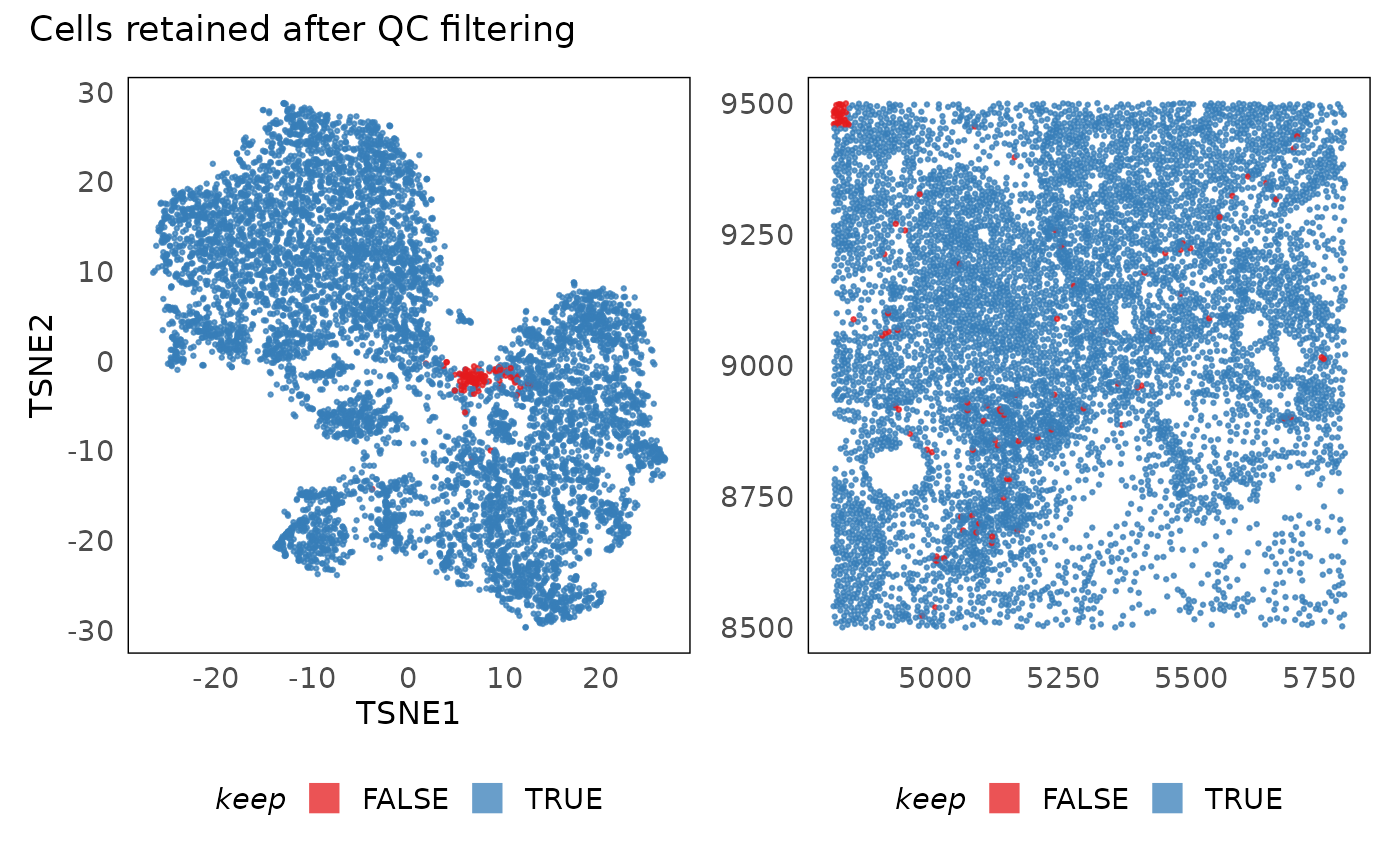
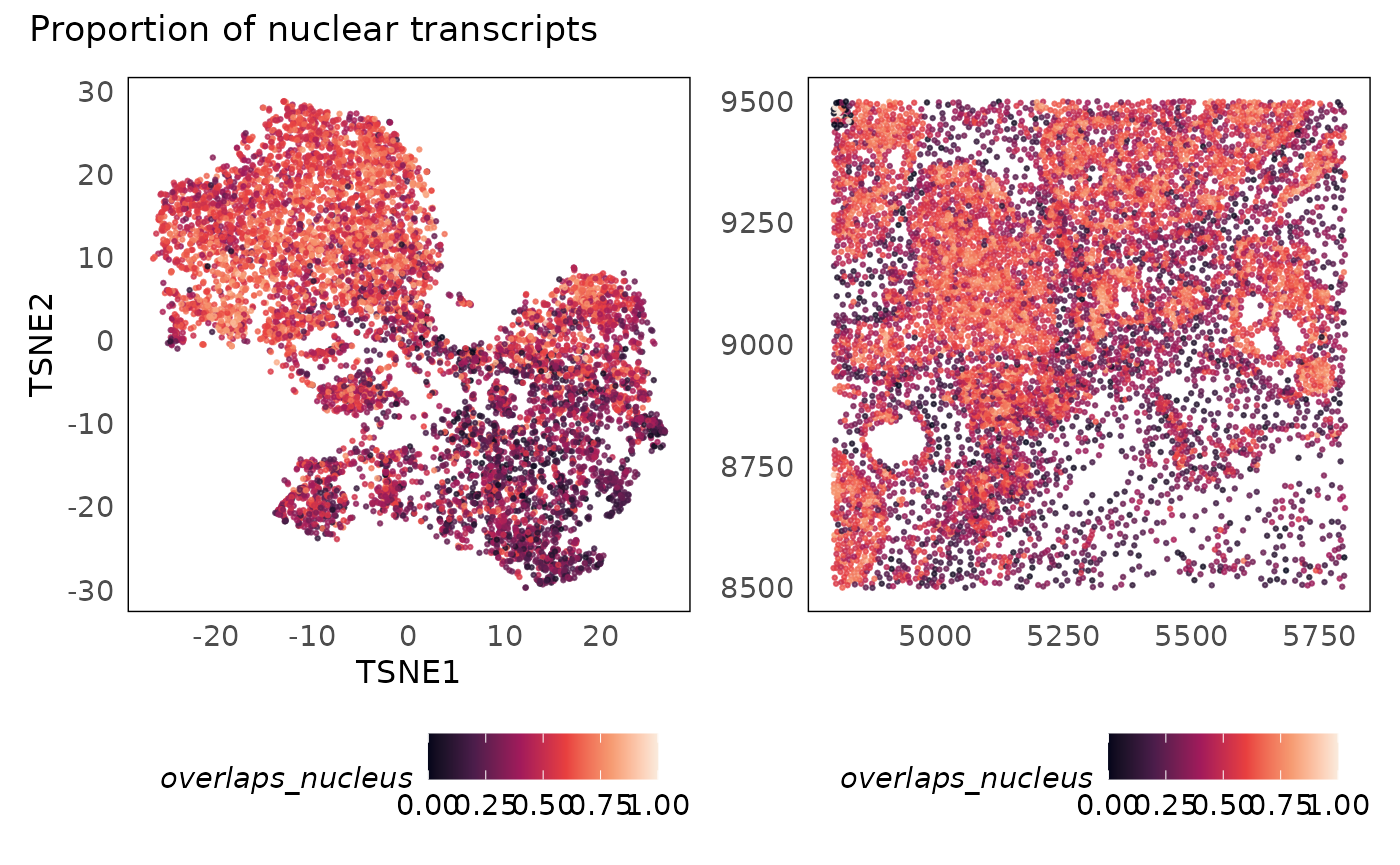
Deploying to gh-pages from @ bhuvad/XeniumSpatialAnalysisWorkshop@cda8f90f10d10c29cb02edc759df323031178409 🚀

diff --git a/articles/workflow_spatial_xenium.html b/articles/workflow_spatial_xenium.html
@@ -117,13 +117,21 @@ version</strong>: 0.99.0</p>
 </h2>
 </div>
 <div class="section level2">
-<h2 id="loading-prepared-the-data">Loading prepared the data<a class="anchor" aria-label="anchor" href="#loading-prepared-the-data"></a>
+<h2 id="loading-prepared-data">Loading prepared data<a class="anchor" aria-label="anchor" href="#loading-prepared-data"></a>
 </h2>
+<p>The data we will use in this workshop is from the 10x Xenium
+platform. Since the objective of this workshop is to introduce you to
+spatial transcriptomics analysis, we do not work with the full dataset,
+which contains over 500,000 cells and instead opt to work with a smaller
+subset of the sample. This region contains interesting features and is
+therefore enough to showcase a complete spatial transcriptomics analysis
+workflow. The data used in this workshop is a window with the x
+coordinate in the interval (4800, 5800) and the y coordinate in the
+interval (8500, 9500). This window is shown in the context of the full
+tissue below.</p>
 <div class="float">
 <img src="https://raw.githubusercontent.com/bhuvad/XeniumSpatialAnalysisWorkshop/refs/heads/main/inst/extdata/full_tissue.png" alt="Full IDC"><div class="figcaption">Full IDC</div>
 </div>
-<p>x coordinate is in the interval (4800, 5800) and the y coordinate is
-in the interval (8500, 9500)</p>
 <div class="sourceCode" id="cb1"><pre class="downlit sourceCode r">
 <code class="sourceCode R"><span><span class="fu"><a href="https://rdrr.io/r/utils/data.html" class="external-link">data</a></span><span class="op">(</span><span class="va">idc</span><span class="op">)</span></span>
 <span><span class="co"># preview object</span></span>
@@ -224,7 +232,7 @@ will not scale for the purpose of this workshop. If interested, run the
 code below on your own laptop.</p>
 </blockquote>
 <div class="sourceCode" id="cb12"><pre class="downlit sourceCode r">
-<code class="sourceCode R"><span><span class="co">## DO NOT RUN during the workshop as the data are large</span></span>
+<code class="sourceCode R"><span><span class="co">## DO NOT RUN during the workshop as the data are large and could crash your session</span></span>
 <span><span class="kw">if</span> <span class="op">(</span><span class="op">!</span><span class="kw"><a href="https://rdrr.io/r/base/library.html" class="external-link">require</a></span><span class="op">(</span><span class="st">"ExperimentHub"</span>, quietly <span class="op">=</span> <span class="cn">TRUE</span><span class="op">)</span><span class="op">)</span> <span class="op">{</span></span>
 <span>  <span class="fu">BiocManager</span><span class="fu">::</span><span class="fu"><a href="https://bioconductor.github.io/BiocManager/reference/install.html" class="external-link">install</a></span><span class="op">(</span><span class="st">"ExperimentHub"</span><span class="op">)</span></span>
 <span><span class="op">}</span></span>
@@ -329,10 +337,12 @@ technologies are variable, there are no standards as of yet for
 filtering. For instance, immune cells will always have smaller library
 sizes and potentially a smaller number of genes expressed in a targetted
 panel as each cell type may be represented by a few marker genes.
-Desipte the lack of standards, the extreme cases where cells express
-fewer than 10 genes and have fewer than 10-20 detections are clearly of
-poor quality. As such, we can start with these thresholds and adjust
-based on other metrics and visualisations.</p>
+Additionally, these cells are smaller in size therefore could be
+filtered out using an area-based filter. Desipte the lack of standards,
+the extreme cases where cells express fewer than 10 genes and have fewer
+than 10-20 detections are clearly of poor quality. As such, we can start
+with these thresholds and adjust based on other metrics and
+visualisations.</p>
 <div class="sourceCode" id="cb18"><pre class="downlit sourceCode r">
 <code class="sourceCode R"><span><span class="co"># t-SNE plot</span></span>
 <span><span class="va">p1</span> <span class="op">=</span> <span class="fu">plotDR</span><span class="op">(</span><span class="va">idc</span>, dimred <span class="op">=</span> <span class="st">"TSNE"</span>, colour <span class="op">=</span> <span class="va">sum</span>, alpha <span class="op">=</span> <span class="fl">0.75</span>, size <span class="op">=</span> <span class="fl">0.5</span><span class="op">)</span> <span class="op">+</span></span>
@@ -371,6 +381,18 @@ based on other metrics and visualisations.</p>
 <p><img src="workflow_spatial_xenium_files/figure-html/unnamed-chunk-10-1.png" width="700"></p>
 <div class="sourceCode" id="cb21"><pre class="downlit sourceCode r">
 <code class="sourceCode R"><span><span class="co"># t-SNE plot</span></span>
+<span><span class="va">p1</span> <span class="op">=</span> <span class="fu">plotDR</span><span class="op">(</span><span class="va">idc</span>, dimred <span class="op">=</span> <span class="st">"TSNE"</span>, colour <span class="op">=</span> <span class="va">subsets_neg_percent</span>, alpha <span class="op">=</span> <span class="fl">0.75</span>, size <span class="op">=</span> <span class="fl">0.5</span><span class="op">)</span> <span class="op">+</span></span>
+<span>  <span class="fu">scale_colour_viridis_c</span><span class="op">(</span>option <span class="op">=</span> <span class="st">"F"</span>, limits <span class="op">=</span> <span class="fu"><a href="https://rdrr.io/r/base/c.html" class="external-link">c</a></span><span class="op">(</span><span class="fl">0</span>, <span class="fl">2</span><span class="op">)</span>, oob <span class="op">=</span> <span class="fu">scales</span><span class="fu">::</span><span class="va"><a href="https://scales.r-lib.org/reference/oob.html" class="external-link">squish</a></span><span class="op">)</span> <span class="op">+</span></span>
+<span>  <span class="fu">labs</span><span class="op">(</span>x <span class="op">=</span> <span class="st">"TSNE1"</span>, y <span class="op">=</span> <span class="st">"TSNE2"</span><span class="op">)</span> <span class="op">+</span></span>
+<span>  <span class="fu">theme</span><span class="op">(</span>legend.position <span class="op">=</span> <span class="st">"bottom"</span><span class="op">)</span></span>
+<span><span class="co"># spatial plot</span></span>
+<span><span class="va">p2</span> <span class="op">=</span> <span class="fu">plotSpatial</span><span class="op">(</span><span class="va">idc</span>, colour <span class="op">=</span> <span class="va">subsets_neg_percent</span>, alpha <span class="op">=</span> <span class="fl">0.75</span><span class="op">)</span> <span class="op">+</span></span>
+<span>  <span class="fu">scale_colour_viridis_c</span><span class="op">(</span>option <span class="op">=</span> <span class="st">"F"</span>, limits <span class="op">=</span> <span class="fu"><a href="https://rdrr.io/r/base/c.html" class="external-link">c</a></span><span class="op">(</span><span class="fl">0</span>, <span class="fl">2</span><span class="op">)</span>, oob <span class="op">=</span> <span class="fu">scales</span><span class="fu">::</span><span class="va"><a href="https://scales.r-lib.org/reference/oob.html" class="external-link">squish</a></span><span class="op">)</span> <span class="op">+</span></span>
+<span>  <span class="fu">theme</span><span class="op">(</span>legend.position <span class="op">=</span> <span class="st">"bottom"</span><span class="op">)</span></span>
+<span><span class="va">p1</span> <span class="op">+</span> <span class="va">p2</span> <span class="op">+</span> <span class="fu">plot_annotation</span><span class="op">(</span>title <span class="op">=</span> <span class="st">"Proportion of negative control probes"</span><span class="op">)</span></span></code></pre></div>
+<p><img src="workflow_spatial_xenium_files/figure-html/unnamed-chunk-11-1.png" width="700"></p>
+<div class="sourceCode" id="cb22"><pre class="downlit sourceCode r">
+<code class="sourceCode R"><span><span class="co"># t-SNE plot</span></span>
 <span><span class="va">p1</span> <span class="op">=</span> <span class="fu">plotDR</span><span class="op">(</span><span class="va">idc</span>, dimred <span class="op">=</span> <span class="st">"TSNE"</span>, colour <span class="op">=</span> <span class="va">overlaps_nucleus</span>, alpha <span class="op">=</span> <span class="fl">0.75</span>, size <span class="op">=</span> <span class="fl">0.5</span><span class="op">)</span> <span class="op">+</span></span>
 <span>  <span class="fu">scale_colour_viridis_c</span><span class="op">(</span>option <span class="op">=</span> <span class="st">"F"</span><span class="op">)</span> <span class="op">+</span></span>
 <span>  <span class="fu">labs</span><span class="op">(</span>x <span class="op">=</span> <span class="st">"TSNE1"</span>, y <span class="op">=</span> <span class="st">"TSNE2"</span><span class="op">)</span> <span class="op">+</span></span>
@@ -379,8 +401,8 @@ based on other metrics and visualisations.</p>
 <span><span class="va">p2</span> <span class="op">=</span> <span class="fu">plotSpatial</span><span class="op">(</span><span class="va">idc</span>, colour <span class="op">=</span> <span class="va">overlaps_nucleus</span>, alpha <span class="op">=</span> <span class="fl">0.75</span><span class="op">)</span> <span class="op">+</span></span>
 <span>  <span class="fu">scale_colour_viridis_c</span><span class="op">(</span>option <span class="op">=</span> <span class="st">"F"</span><span class="op">)</span> <span class="op">+</span></span>
 <span>  <span class="fu">theme</span><span class="op">(</span>legend.position <span class="op">=</span> <span class="st">"bottom"</span><span class="op">)</span></span>
-<span><span class="va">p1</span> <span class="op">+</span> <span class="va">p2</span> <span class="op">+</span> <span class="fu">plot_annotation</span><span class="op">(</span>title <span class="op">=</span> <span class="st">"Proportion of nucleur transcripts"</span><span class="op">)</span></span></code></pre></div>
-<p><img src="workflow_spatial_xenium_files/figure-html/unnamed-chunk-11-1.png" width="700"></p>
+<span><span class="va">p1</span> <span class="op">+</span> <span class="va">p2</span> <span class="op">+</span> <span class="fu">plot_annotation</span><span class="op">(</span>title <span class="op">=</span> <span class="st">"Proportion of nuclear transcripts"</span><span class="op">)</span></span></code></pre></div>
+<p><img src="workflow_spatial_xenium_files/figure-html/unnamed-chunk-12-1.png" width="700"></p>
 <p>Having visualised the quality metrics and their distrition across
 space and the genomic dimensions, we can now begin to test threshold
 values. We want to remove low quality cells but we have to be careful
@@ -393,7 +415,7 @@ under- filtering.</p>
 100?</li>
 <li>What about setting the <code>detected</code> threshold to 50?</li>
 </ul>
-<div class="sourceCode" id="cb22"><pre class="downlit sourceCode r">
+<div class="sourceCode" id="cb23"><pre class="downlit sourceCode r">
 <code class="sourceCode R"><span><span class="va">thresh_sum</span> <span class="op">=</span> <span class="fl">20</span></span>
 <span><span class="va">thresh_detected</span> <span class="op">=</span> <span class="fl">10</span></span>
 <span></span>
@@ -412,7 +434,7 @@ under- filtering.</p>
 <span>  <span class="fu">theme</span><span class="op">(</span>legend.position <span class="op">=</span> <span class="st">"bottom"</span><span class="op">)</span> <span class="op">+</span></span>
 <span>  <span class="fu">guides</span><span class="op">(</span>colour <span class="op">=</span> <span class="fu">guide_legend</span><span class="op">(</span>override.aes <span class="op">=</span> <span class="fu"><a href="https://rdrr.io/r/base/list.html" class="external-link">list</a></span><span class="op">(</span>shape <span class="op">=</span> <span class="fl">15</span>, size <span class="op">=</span> <span class="fl">5</span><span class="op">)</span><span class="op">)</span><span class="op">)</span></span>
 <span><span class="va">p1</span> <span class="op">+</span> <span class="va">p2</span> <span class="op">+</span> <span class="fu">plot_annotation</span><span class="op">(</span>title <span class="op">=</span> <span class="st">"Cells retained after QC filtering"</span><span class="op">)</span></span></code></pre></div>
-<p><img src="workflow_spatial_xenium_files/figure-html/unnamed-chunk-12-1.png" width="700"></p>
+<p><img src="workflow_spatial_xenium_files/figure-html/unnamed-chunk-13-1.png" width="700"></p>
 <p>In practice, after poor quality cells are filtered out, we tend to
 see clearer separation of clusters in the t-SNE (or equivalent
 visualisations). We also notice that poor quality cells often seem like
@@ -424,11 +446,22 @@ that is of poor quality. It is unlikely that biology would be present in
 such a regular shape therefore we can use that region as a guide in
 selecting thresholds. Having selected the thresholds, we now apply them
 and remove the negative control probes from donwstream analysis.</p>
-<div class="sourceCode" id="cb23"><pre class="downlit sourceCode r">
+<div class="sourceCode" id="cb24"><pre class="downlit sourceCode r">
 <code class="sourceCode R"><span><span class="co"># apply the filtering</span></span>
 <span><span class="va">idc</span> <span class="op">=</span> <span class="va">idc</span><span class="op">[</span>, <span class="va">idc</span><span class="op">$</span><span class="va">keep</span><span class="op">]</span></span>
 <span><span class="co"># remove negative probes</span></span>
 <span><span class="va">idc</span> <span class="op">=</span> <span class="va">idc</span><span class="op">[</span><span class="op">!</span><span class="va">is_neg</span>, <span class="op">]</span></span></code></pre></div>
+<blockquote>
+<p>As these technologies are still emerging, all quality control metrics
+should be evaluated on a case-by-case basis depending on the platform,
+panel set, and tissue. Knowing the biology to expect or what is
+definitely NOT biology helps in making these decisions. As any
+experienced bioinformatician will tell you, you will vary these
+thresholds a few times throughout your analysis because you learn more
+about the data, biology, and platform as you analyse the data. This
+cyclical approach can introduce biases so always rely on multiple
+avenues of evidence before changing parameters.</p>
+</blockquote>
 </div>
 <div class="section level2">
 <h2 id="normalisation">Normalisation<a class="anchor" aria-label="anchor" href="#normalisation"></a>
@@ -443,12 +476,12 @@ because the gene is truly highly expressed. Whether it is
 sequencing-based or imaging-based transcriptomics, we are always
 sampling from the true pool of transcripts and are therefore likely to
 have library size variation.</p>
-<div class="sourceCode" id="cb24"><pre class="downlit sourceCode r">
+<div class="sourceCode" id="cb25"><pre class="downlit sourceCode r">
 <code class="sourceCode R"><span><span class="va">idc</span><span class="op">$</span><span class="va">logLS</span> <span class="op">=</span> <span class="fu"><a href="https://rdrr.io/r/base/Log.html" class="external-link">log2</a></span><span class="op">(</span><span class="va">idc</span><span class="op">$</span><span class="va">sum</span> <span class="op">+</span> <span class="fl">1</span><span class="op">)</span></span>
 <span><span class="fu">plotSpatial</span><span class="op">(</span><span class="va">idc</span>, colour <span class="op">=</span> <span class="va">logLS</span><span class="op">)</span> <span class="op">+</span></span>
 <span>  <span class="fu">scale_colour_viridis_c</span><span class="op">(</span>option <span class="op">=</span> <span class="st">"F"</span><span class="op">)</span> <span class="op">+</span></span>
 <span>  <span class="fu">theme</span><span class="op">(</span>legend.position <span class="op">=</span> <span class="st">"bottom"</span><span class="op">)</span></span></code></pre></div>
-<p><img src="workflow_spatial_xenium_files/figure-html/unnamed-chunk-14-1.png" width="700"></p>
+<p><img src="workflow_spatial_xenium_files/figure-html/unnamed-chunk-15-1.png" width="700"></p>
 <p>To remove these library size biases, we perform library size
 normalisation. As measurements are independent in bulk and single-cell
 RNA-seq (reactions happen independently for each sample/cell), each cell
@@ -494,15 +527,15 @@ freedom are generally good enough. If the degrees of freedom are
 increased, regularisation should also be increased
 (<code>lambda.a</code> parameter).</li>
 </ol>
-<div class="sourceCode" id="cb25"><pre class="downlit sourceCode r">
+<div class="sourceCode" id="cb26"><pre class="downlit sourceCode r">
 <code class="sourceCode R"><span><span class="fu"><a href="https://rdrr.io/r/base/Random.html" class="external-link">set.seed</a></span><span class="op">(</span><span class="fl">1000</span><span class="op">)</span></span>
 <span><span class="co"># perform SpaNorm normalisation</span></span>
 <span><span class="va">idc</span> <span class="op">=</span> <span class="fu">SpaNorm</span><span class="op">(</span><span class="va">idc</span>, sample.p <span class="op">=</span> <span class="fl">0.5</span>, df.tps <span class="op">=</span> <span class="fl">6</span><span class="op">)</span></span></code></pre></div>
 <p>Above, the model is fit and the default adjustment,
-<code>logPAC</code>, is computed. Alternative adjustments such the mean
-biology (<code>meanbio</code>) can be computed as well (this will be
-faster as the fit does not need to be repeated).</p>
-<div class="sourceCode" id="cb26"><pre class="downlit sourceCode r">
+<code>logPAC</code>, is computed. Alternative adjustments such as the
+mean biology (<code>meanbio</code>) can be computed as well (this will
+be faster as the fit does not need to be repeated).</p>
+<div class="sourceCode" id="cb27"><pre class="downlit sourceCode r">
 <code class="sourceCode R"><span><span class="co"># compute mean biology</span></span>
 <span><span class="va">idc_mean</span> <span class="op">=</span> <span class="fu">SpaNorm</span><span class="op">(</span><span class="va">idc</span>, adj.method <span class="op">=</span> <span class="st">"meanbio"</span><span class="op">)</span></span>
 <span></span>
@@ -514,8 +547,13 @@ faster as the fit does not need to be repeated).</p>
 <span>  <span class="fu">scale_colour_viridis_c</span><span class="op">(</span>option <span class="op">=</span> <span class="st">"F"</span><span class="op">)</span> <span class="op">+</span></span>
 <span>  <span class="fu">ggtitle</span><span class="op">(</span><span class="st">"Mean from SpaNorm model"</span><span class="op">)</span> <span class="op">+</span></span>
 <span>  <span class="fu">theme</span><span class="op">(</span>legend.position <span class="op">=</span> <span class="st">"bottom"</span><span class="op">)</span></span>
-<span><span class="va">p1</span> <span class="op">+</span> <span class="va">p2</span> <span class="op">+</span> <span class="fu">plot_annotation</span><span class="op">(</span>title <span class="op">=</span> <span class="st">"Proportion of nucleur transcripts"</span><span class="op">)</span></span></code></pre></div>
-<p><img src="workflow_spatial_xenium_files/figure-html/unnamed-chunk-16-1.png" width="700"></p>
+<span><span class="va">p1</span> <span class="op">+</span> <span class="va">p2</span> <span class="op">+</span> <span class="fu">plot_annotation</span><span class="op">(</span>title <span class="op">=</span> <span class="st">"Proportion of nuclear transcripts"</span><span class="op">)</span></span></code></pre></div>
+<p><img src="workflow_spatial_xenium_files/figure-html/unnamed-chunk-17-1.png" width="700"></p>
+<p><em>EPCAM</em> is an epithelial cell marker gene that will also be
+expressed in breast cancer cells that are of epithelial origin. The
+SpaNorm model correctly models the regions where the cancer cells exist
+(mean) and is able to normalise technical effects without affecting the
+biology.</p>
 </div>
 <div class="section level2">
 <h2 id="cell-typing">Cell typing<a class="anchor" aria-label="anchor" href="#cell-typing"></a>
@@ -538,7 +576,7 @@ cell type. Aggregation is performed using the
 <code><a href="https://rdrr.io/pkg/scuttle/man/aggregateAcrossCells.html" class="external-link">scater::aggregateAcrossCells</a></code> function. As the original
 dataset contains &gt;96,000 cells, we only provide the aggregated counts
 for this workshop.</p>
-<div class="sourceCode" id="cb27"><pre class="downlit sourceCode r">
+<div class="sourceCode" id="cb28"><pre class="downlit sourceCode r">
 <code class="sourceCode R"><span><span class="co"># load reference dataset - Wu et al., Nat Genetics, 2021</span></span>
 <span><span class="fu"><a href="https://rdrr.io/r/utils/data.html" class="external-link">data</a></span><span class="op">(</span><span class="va">ref_wu</span><span class="op">)</span></span>
 <span><span class="va">ref_wu</span></span></code></pre></div>
@@ -553,24 +591,24 @@ for this workshop.</p>
 <span><span class="co">## reducedDimNames(0):</span></span>
 <span><span class="co">## mainExpName: NULL</span></span>
 <span><span class="co">## altExpNames(0):</span></span></code></pre>
-<div class="sourceCode" id="cb29"><pre class="downlit sourceCode r">
+<div class="sourceCode" id="cb30"><pre class="downlit sourceCode r">
 <code class="sourceCode R"><span><span class="co"># cell types in the reference dataset</span></span>
 <span><span class="va">ref_wu</span><span class="op">$</span><span class="va">label.cell_type</span></span></code></pre></div>
 <pre><code><span><span class="co">##  [1] "B_cell"      "Dendritic"   "Endothelial" "Epithelial"  "Fibroblast" </span></span>
 <span><span class="co">##  [6] "Macrophage"  "Malignant"   "Monocyte"    "Myeloid"     "NK_cell"    </span></span>
 <span><span class="co">## [11] "Pericyte"    "Plasmablast" "T_cell"</span></span></code></pre>
-<div class="sourceCode" id="cb31"><pre class="downlit sourceCode r">
+<div class="sourceCode" id="cb32"><pre class="downlit sourceCode r">
 <code class="sourceCode R"><span><span class="co"># predict cell types using SingleR</span></span>
 <span><span class="va">prediction</span> <span class="op">=</span> <span class="fu">SingleR</span><span class="op">(</span>test <span class="op">=</span> <span class="va">idc</span>, ref <span class="op">=</span> <span class="va">ref_wu</span>, labels <span class="op">=</span> <span class="va">ref_wu</span><span class="op">$</span><span class="va">label.cell_type</span><span class="op">)</span></span>
 <span><span class="co"># add prediction to the SpatialExperiment object</span></span>
 <span><span class="va">idc</span><span class="op">$</span><span class="va">cell_type</span> <span class="op">=</span> <span class="va">prediction</span><span class="op">$</span><span class="va">labels</span></span></code></pre></div>
-<div class="sourceCode" id="cb32"><pre class="downlit sourceCode r">
+<div class="sourceCode" id="cb33"><pre class="downlit sourceCode r">
 <code class="sourceCode R"><span><span class="fu">plotSpatial</span><span class="op">(</span><span class="va">idc</span>, colour <span class="op">=</span> <span class="va">cell_type</span>, alpha <span class="op">=</span> <span class="fl">0.75</span><span class="op">)</span> <span class="op">+</span></span>
 <span>  <span class="fu">scale_colour_brewer</span><span class="op">(</span>palette <span class="op">=</span> <span class="st">"Paired"</span>, na.value <span class="op">=</span> <span class="st">"#333333"</span><span class="op">)</span> <span class="op">+</span></span>
 <span>  <span class="fu">ggtitle</span><span class="op">(</span><span class="st">"Mean from SpaNorm model"</span><span class="op">)</span> <span class="op">+</span></span>
 <span>  <span class="fu">theme</span><span class="op">(</span>legend.position <span class="op">=</span> <span class="st">"bottom"</span><span class="op">)</span> <span class="op">+</span></span>
 <span>  <span class="fu">guides</span><span class="op">(</span>colour <span class="op">=</span> <span class="fu">guide_legend</span><span class="op">(</span>override.aes <span class="op">=</span> <span class="fu"><a href="https://rdrr.io/r/base/list.html" class="external-link">list</a></span><span class="op">(</span>shape <span class="op">=</span> <span class="fl">15</span>, size <span class="op">=</span> <span class="fl">5</span><span class="op">)</span><span class="op">)</span><span class="op">)</span></span></code></pre></div>
-<p><img src="workflow_spatial_xenium_files/figure-html/unnamed-chunk-19-1.png" width="700"></p>
+<p><img src="workflow_spatial_xenium_files/figure-html/unnamed-chunk-20-1.png" width="700"></p>
 </div>
 <div class="section level2">
 <h2 id="spatial-domain-identification">Spatial domain identification<a class="anchor" aria-label="anchor" href="#spatial-domain-identification"></a>
@@ -620,7 +658,7 @@ depth.</li>
 information. The authors recommend values within [15, 30] and note that
 variation is minimal within this range.</li>
 </ol>
-<div class="sourceCode" id="cb33"><pre class="downlit sourceCode r">
+<div class="sourceCode" id="cb34"><pre class="downlit sourceCode r">
 <code class="sourceCode R"><span><span class="co"># parameters</span></span>
 <span><span class="va">lambda</span> <span class="op">=</span> <span class="fl">0.2</span></span>
 <span><span class="va">npcs</span> <span class="op">=</span> <span class="fl">50</span></span>
@@ -646,7 +684,7 @@ variation is minimal within this range.</li>
 <span>  <span class="fu">ggtitle</span><span class="op">(</span><span class="st">"Mean from SpaNorm model"</span><span class="op">)</span> <span class="op">+</span></span>
 <span>  <span class="fu">theme</span><span class="op">(</span>legend.position <span class="op">=</span> <span class="st">"bottom"</span><span class="op">)</span> <span class="op">+</span></span>
 <span>  <span class="fu">guides</span><span class="op">(</span>colour <span class="op">=</span> <span class="fu">guide_legend</span><span class="op">(</span>override.aes <span class="op">=</span> <span class="fu"><a href="https://rdrr.io/r/base/list.html" class="external-link">list</a></span><span class="op">(</span>shape <span class="op">=</span> <span class="fl">15</span>, size <span class="op">=</span> <span class="fl">5</span><span class="op">)</span><span class="op">)</span><span class="op">)</span></span></code></pre></div>
-<p><img src="workflow_spatial_xenium_files/figure-html/unnamed-chunk-20-1.png" width="700"></p>
+<p><img src="workflow_spatial_xenium_files/figure-html/unnamed-chunk-21-1.png" width="700"></p>
 <p>Try varying the parameters to see how the clustering changes. Do note
 that the results are automatically stored in a new column in the
 colData. Unfortunately, the function does not allow specification of the
@@ -664,7 +702,7 @@ for instance seems to represent different structures in the stroma, some
 of which may be visible in the histology image but are intestive to
 label manually. We also find cluster 4 which represents a boundary of
 cells surrounding invasive and DCIS lesions.</p>
-<div class="sourceCode" id="cb34"><pre class="downlit sourceCode r">
+<div class="sourceCode" id="cb35"><pre class="downlit sourceCode r">
 <code class="sourceCode R"><span><span class="va">p1</span> <span class="op">=</span> <span class="fu">plotSpatial</span><span class="op">(</span><span class="va">idc</span>, colour <span class="op">=</span> <span class="va">predicted_region</span>, alpha <span class="op">=</span> <span class="fl">0.75</span><span class="op">)</span> <span class="op">+</span></span>
 <span>  <span class="fu">scale_colour_brewer</span><span class="op">(</span>palette <span class="op">=</span> <span class="st">"Paired"</span>, na.value <span class="op">=</span> <span class="st">"#333333"</span>, name <span class="op">=</span> <span class="st">"cluster"</span><span class="op">)</span> <span class="op">+</span></span>
 <span>  <span class="fu">ggtitle</span><span class="op">(</span><span class="st">"Mean from SpaNorm model"</span><span class="op">)</span> <span class="op">+</span></span>
@@ -675,7 +713,7 @@ cells surrounding invasive and DCIS lesions.</p>
 <span>  <span class="fu">ggtitle</span><span class="op">(</span><span class="st">"Pathology annotations"</span><span class="op">)</span> <span class="op">+</span></span>
 <span>  <span class="fu">guides</span><span class="op">(</span>colour <span class="op">=</span> <span class="fu">guide_legend</span><span class="op">(</span>nrow <span class="op">=</span> <span class="fl">3</span>, override.aes <span class="op">=</span> <span class="fu"><a href="https://rdrr.io/r/base/list.html" class="external-link">list</a></span><span class="op">(</span>shape <span class="op">=</span> <span class="fl">15</span>, size <span class="op">=</span> <span class="fl">5</span><span class="op">)</span><span class="op">)</span><span class="op">)</span></span>
 <span><span class="va">p1</span> <span class="op">+</span> <span class="va">p2</span> <span class="op">+</span> <span class="fu">plot_annotation</span><span class="op">(</span>title <span class="op">=</span> <span class="st">"Spatial domain identification"</span><span class="op">)</span></span></code></pre></div>
-<p><img src="workflow_spatial_xenium_files/figure-html/unnamed-chunk-21-1.png" width="700"></p>
+<p><img src="workflow_spatial_xenium_files/figure-html/unnamed-chunk-22-1.png" width="700"></p>
 </div>
 <div class="section level2">
 <h2 id="differential-expression">Differential expression<a class="anchor" aria-label="anchor" href="#differential-expression"></a>
@@ -694,7 +732,7 @@ cell types such as fibroblasts. We may be interested in identifying the
 differences in fibroblasts that are in close proximity to cancer cells
 as opposed to the distant ones. We can identify the genes that are
 associated with these changes below.</p>
-<div class="sourceCode" id="cb35"><pre class="downlit sourceCode r">
+<div class="sourceCode" id="cb36"><pre class="downlit sourceCode r">
 <code class="sourceCode R"><span><span class="co"># create clusters to study how cell types vary across domains</span></span>
 <span><span class="va">clusters</span> <span class="op">=</span> <span class="fu"><a href="https://rdrr.io/pkg/BiocGenerics/man/paste.html" class="external-link">paste</a></span><span class="op">(</span><span class="va">idc</span><span class="op">$</span><span class="va">cell_type</span>, <span class="va">idc</span><span class="op">$</span><span class="va">predicted_region</span>, sep <span class="op">=</span> <span class="st">"_"</span><span class="op">)</span></span>
 <span><span class="va">clusters</span> <span class="op">|&gt;</span></span>
@@ -727,7 +765,7 @@ could be used to perform analysis on a single tissue, however, it would
 also be more robust with biological replicates. This tool is outside the
 scope of this introductory workshop therefore is not covered.</p>
 </blockquote>
-<div class="sourceCode" id="cb37"><pre class="downlit sourceCode r">
+<div class="sourceCode" id="cb38"><pre class="downlit sourceCode r">
 <code class="sourceCode R"><span><span class="kw"><a href="https://rdrr.io/r/base/library.html" class="external-link">library</a></span><span class="op">(</span><span class="va"><a href="https://github.com/MarioniLab/scran/" class="external-link">scran</a></span><span class="op">)</span></span>
 <span></span>
 <span><span class="co"># identify markers</span></span>
@@ -737,12 +775,12 @@ scope of this introductory workshop therefore is not covered.</p>
 <span><span class="co">## names(2): Fibroblast_3 Malignant_2</span></span></code></pre>
 <p>Below we compare the malignant (cancer) cells from region 2
 (invasive) against those from region 5 (DCIS). Investigating and
-visialising the top genes shows that <a href="https://www.genecards.org/cgi-bin/carddisp.pl?gene=DHRS" class="external-link">DHRS</a>
-and <a href="https://www.genecards.org/cgi-bin/carddisp.pl?gene=MUC6" class="external-link">MUC6</a>
-are up-regulated in invasive cancer cells while <a href="https://www.genecards.org/cgi-bin/carddisp.pl?gene=GATA3" class="external-link">GATA3</a>
-and <a href="https://www.genecards.org/cgi-bin/carddisp.pl?gene=FLNB" class="external-link">FLNB</a>
+visialising the top genes shows that <a href="https://www.genecards.org/cgi-bin/carddisp.pl?gene=DHRS" class="external-link"><em>DHRS</em></a>
+and <a href="https://www.genecards.org/cgi-bin/carddisp.pl?gene=MUC6" class="external-link"><em>MUC6</em></a>
+are up-regulated in invasive cancer cells while <a href="https://www.genecards.org/cgi-bin/carddisp.pl?gene=GATA3" class="external-link"><em>GATA3</em></a>
+and <a href="https://www.genecards.org/cgi-bin/carddisp.pl?gene=FLNB" class="external-link"><em>FLNB</em></a>
 are moderately up-regulated in DCIS cancer cells.</p>
-<div class="sourceCode" id="cb39"><pre class="downlit sourceCode r">
+<div class="sourceCode" id="cb40"><pre class="downlit sourceCode r">
 <code class="sourceCode R"><span><span class="kw"><a href="https://rdrr.io/r/base/library.html" class="external-link">library</a></span><span class="op">(</span><span class="va"><a href="http://bioconductor.org/packages/scater/" class="external-link">scater</a></span><span class="op">)</span></span>
 <span></span>
 <span><span class="co"># study markers of Malignant_2</span></span>
@@ -758,7 +796,7 @@ are moderately up-regulated in DCIS cancer cells.</p>
 <span><span class="co">## SERHL2        1.13927      0.238138      0.629426       0.183949</span></span>
 <span><span class="co">## MUC6          1.04731      0.189133      0.572777       0.141997</span></span>
 <span><span class="co">## ANKRD30A      3.60635      1.968429      0.988985       0.635830</span></span></code></pre>
-<div class="sourceCode" id="cb41"><pre class="downlit sourceCode r">
+<div class="sourceCode" id="cb42"><pre class="downlit sourceCode r">
 <code class="sourceCode R"><span><span class="fu"><a href="https://rdrr.io/pkg/scater/man/plotExpression.html" class="external-link">plotExpression</a></span><span class="op">(</span><span class="va">idc</span>,</span>
 <span>  features <span class="op">=</span> <span class="fu"><a href="https://rdrr.io/r/utils/head.html" class="external-link">head</a></span><span class="op">(</span><span class="fu"><a href="https://rdrr.io/pkg/BiocGenerics/man/row_colnames.html" class="external-link">rownames</a></span><span class="op">(</span><span class="va">ordered_malignant</span><span class="op">)</span>, <span class="fl">9</span><span class="op">)</span>,</span>
 <span>  x <span class="op">=</span> <span class="st">"predicted_region"</span>,</span>
@@ -769,15 +807,15 @@ are moderately up-regulated in DCIS cancer cells.</p>
 <span>  <span class="fu"><a href="https://ggplot2.tidyverse.org/reference/scale_brewer.html" class="external-link">scale_colour_brewer</a></span><span class="op">(</span>palette <span class="op">=</span> <span class="st">"Paired"</span>, na.value <span class="op">=</span> <span class="st">"#333333"</span>, name <span class="op">=</span> <span class="st">"cluster"</span><span class="op">)</span> <span class="op">+</span></span>
 <span>  <span class="fu"><a href="https://ggplot2.tidyverse.org/reference/theme.html" class="external-link">theme</a></span><span class="op">(</span>legend.position <span class="op">=</span> <span class="st">"bottom"</span><span class="op">)</span> <span class="op">+</span></span>
 <span>  <span class="fu"><a href="https://ggplot2.tidyverse.org/reference/guides.html" class="external-link">guides</a></span><span class="op">(</span>colour <span class="op">=</span> <span class="fu"><a href="https://ggplot2.tidyverse.org/reference/guide_legend.html" class="external-link">guide_legend</a></span><span class="op">(</span>override.aes <span class="op">=</span> <span class="fu"><a href="https://rdrr.io/r/base/list.html" class="external-link">list</a></span><span class="op">(</span>shape <span class="op">=</span> <span class="fl">15</span>, size <span class="op">=</span> <span class="fl">5</span><span class="op">)</span><span class="op">)</span><span class="op">)</span></span></code></pre></div>
-<p><img src="workflow_spatial_xenium_files/figure-html/unnamed-chunk-24-1.png" width="768"></p>
+<p><img src="workflow_spatial_xenium_files/figure-html/unnamed-chunk-25-1.png" width="768"></p>
 <p>Next we compare the fibroblasts from region 6 (stroma) against those
 from region 3 (tumour-adjacent). Investigating and visialising the top
-genes shows that <a href="https://www.genecards.org/cgi-bin/carddisp.pl?gene=LUM" class="external-link">LUM</a>
-and <a href="https://www.genecards.org/cgi-bin/carddisp.pl?gene=POSTN" class="external-link">POSTN</a>
-are up-regulated in stromal fibroblasts while <a href="https://www.genecards.org/cgi-bin/carddisp.pl?gene=MMP11" class="external-link">MMP11</a>
-and <a href="https://www.genecards.org/cgi-bin/carddisp.pl?gene=AQP1" class="external-link">AQP1</a>
+genes shows that <a href="https://www.genecards.org/cgi-bin/carddisp.pl?gene=LUM" class="external-link"><em>LUM</em></a>
+and <a href="https://www.genecards.org/cgi-bin/carddisp.pl?gene=POSTN" class="external-link"><em>POSTN</em></a>
+are up-regulated in stromal fibroblasts while <a href="https://www.genecards.org/cgi-bin/carddisp.pl?gene=MMP11" class="external-link"><em>MMP11</em></a>
+and <a href="https://www.genecards.org/cgi-bin/carddisp.pl?gene=AQP1" class="external-link"><em>AQP1</em></a>
 are up-regulated in the tumour-adjacent fibroblasts.</p>
-<div class="sourceCode" id="cb42"><pre class="downlit sourceCode r">
+<div class="sourceCode" id="cb43"><pre class="downlit sourceCode r">
 <code class="sourceCode R"><span><span class="co"># study markers of Malignant_2</span></span>
 <span><span class="va">chosen_fibroblasts</span> <span class="op">&lt;-</span> <span class="va">marker.info</span><span class="op">[[</span><span class="st">"Fibroblast_3"</span><span class="op">]</span><span class="op">]</span></span>
 <span><span class="va">ordered_fibroblasts</span> <span class="op">&lt;-</span> <span class="va">chosen_fibroblasts</span><span class="op">[</span><span class="fu"><a href="https://rdrr.io/pkg/BiocGenerics/man/order.html" class="external-link">order</a></span><span class="op">(</span><span class="va">chosen_fibroblasts</span><span class="op">$</span><span class="va">rank.AUC</span><span class="op">)</span>, <span class="op">]</span></span>
@@ -791,7 +829,7 @@ are up-regulated in the tumour-adjacent fibroblasts.</p>
 <span><span class="co">## POSTN     2.296114      1.318836      0.872521      0.4802572</span></span>
 <span><span class="co">## AEBP1     1.634483      1.231478      0.824363      0.4990967</span></span>
 <span><span class="co">## AQP1      0.673749      0.233876      0.410765      0.1800684</span></span></code></pre>
-<div class="sourceCode" id="cb44"><pre class="downlit sourceCode r">
+<div class="sourceCode" id="cb45"><pre class="downlit sourceCode r">
 <code class="sourceCode R"><span><span class="fu"><a href="https://rdrr.io/pkg/scater/man/plotExpression.html" class="external-link">plotExpression</a></span><span class="op">(</span><span class="va">idc</span>,</span>
 <span>  features <span class="op">=</span> <span class="fu"><a href="https://rdrr.io/r/utils/head.html" class="external-link">head</a></span><span class="op">(</span><span class="fu"><a href="https://rdrr.io/pkg/BiocGenerics/man/row_colnames.html" class="external-link">rownames</a></span><span class="op">(</span><span class="va">ordered_fibroblasts</span><span class="op">)</span>, <span class="fl">9</span><span class="op">)</span>,</span>
 <span>  x <span class="op">=</span> <span class="st">"predicted_region"</span>,</span>
@@ -802,7 +840,7 @@ are up-regulated in the tumour-adjacent fibroblasts.</p>
 <span>  <span class="fu"><a href="https://ggplot2.tidyverse.org/reference/scale_brewer.html" class="external-link">scale_colour_brewer</a></span><span class="op">(</span>palette <span class="op">=</span> <span class="st">"Paired"</span>, na.value <span class="op">=</span> <span class="st">"#333333"</span>, name <span class="op">=</span> <span class="st">"cluster"</span><span class="op">)</span> <span class="op">+</span></span>
 <span>  <span class="fu"><a href="https://ggplot2.tidyverse.org/reference/theme.html" class="external-link">theme</a></span><span class="op">(</span>legend.position <span class="op">=</span> <span class="st">"bottom"</span><span class="op">)</span> <span class="op">+</span></span>
 <span>  <span class="fu"><a href="https://ggplot2.tidyverse.org/reference/guides.html" class="external-link">guides</a></span><span class="op">(</span>colour <span class="op">=</span> <span class="fu"><a href="https://ggplot2.tidyverse.org/reference/guide_legend.html" class="external-link">guide_legend</a></span><span class="op">(</span>override.aes <span class="op">=</span> <span class="fu"><a href="https://rdrr.io/r/base/list.html" class="external-link">list</a></span><span class="op">(</span>shape <span class="op">=</span> <span class="fl">15</span>, size <span class="op">=</span> <span class="fl">5</span><span class="op">)</span><span class="op">)</span><span class="op">)</span></span></code></pre></div>
-<p><img src="workflow_spatial_xenium_files/figure-html/unnamed-chunk-25-1.png" width="768"></p>
+<p><img src="workflow_spatial_xenium_files/figure-html/unnamed-chunk-26-1.png" width="768"></p>
 </div>
 <div class="section level2">
 <h2 id="functional-analysis">Functional analysis<a class="anchor" aria-label="anchor" href="#functional-analysis"></a>
@@ -840,7 +878,7 @@ analysis on the factor loadings to explain the biological processes.</p>
 Bioconductor project, running on R version 4.4.2 (2024-10-31) or higher.
 The complete list of the packages used for this workflow are shown
 below:</p>
-<div class="sourceCode" id="cb45"><pre class="downlit sourceCode r">
+<div class="sourceCode" id="cb46"><pre class="downlit sourceCode r">
 <code class="sourceCode R"><span><span class="fu"><a href="https://rdrr.io/r/utils/sessionInfo.html" class="external-link">sessionInfo</a></span><span class="op">(</span><span class="op">)</span></span></code></pre></div>
 <pre><code><span><span class="co">## R version 4.4.2 (2024-10-31)</span></span>
 <span><span class="co">## Platform: x86_64-pc-linux-gnu</span></span>

diff --git a/index.html b/index.html
@@ -155,15 +155,7 @@
 <div class="section level3">
 <h3 id="guide">Guide<a class="anchor" aria-label="anchor" href="#guide"></a>
 </h3>
-<p>This is necessary in order to reproduce the code shown in the workshop. The workshop is designed for R <code>4.4.1</code> and Bioconductor <code>3.20</code>, and can be installed using one of the two ways below.</p>
-</div>
-<div class="section level3">
-<h3 id="via-docker-image">Via Docker image<a class="anchor" aria-label="anchor" href="#via-docker-image"></a>
-</h3>
-<p>If you’re familiar with <a href="https://docs.docker.com/get-docker/" class="external-link">Docker</a> you could use the Docker image which has all the software pre-configured to the correct versions.</p>
-<pre><code>docker run -e PASSWORD=password -p 8787:8787 bhuvad/xeniumspatialanalysisworkshop:latest</code></pre>
-<p>Once running, navigate to <a href="http://localhost:8787/" class="external-link uri">http://localhost:8787/</a> and then login with <code>Username:rstudio</code> and <code>Password:password</code>.</p>
-<p>You should see the Rmarkdown file with all the workshop code which you can run.</p>
+<p>This is necessary in order to reproduce the code shown in the workshop. The workshop is designed for R <code>4.4.1</code> and Bioconductor <code>3.20</code>, and can be installed as instructed below.</p>
 </div>
 <div class="section level3">
 <h3 id="via-github">Via GitHub<a class="anchor" aria-label="anchor" href="#via-github"></a>
